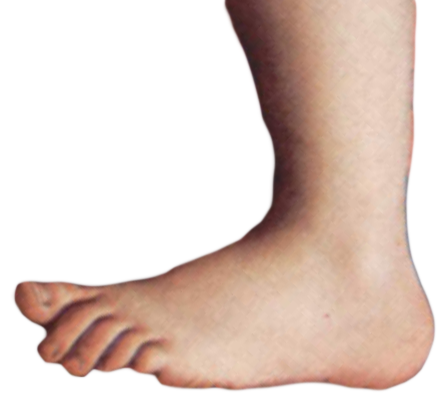
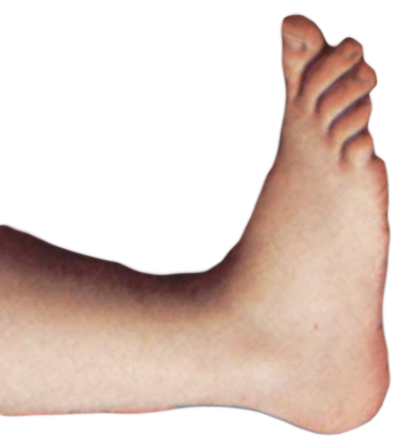
Adjust foot behavior to prevent entrapment

diff --git a/qml/conveyor/Conveyor.qml b/qml/conveyor/Conveyor.qml
@@ -12,39 +12,55 @@ Item {
     property var pictureArray: []
     property var nextImage
 
+    QtObject {
+        id: d
+
+        property int footStartingX: -50 - foot.width
+        property int mountingDesperation: 1
+    }
+
     ImageBoxBody {
         id: foot
+
+        categories: Box.Category1
+        collidesWith: Box.Category2
+
         world: theWorld
-        density: 20000
+        density: 200000
         bodyType: Body.Dynamic
-        x: -width
+        x: d.footStartingX
         anchors.verticalCenter: viewport.verticalCenter
-        rotation: -90
-        mirror: true
         fixedRotation: true
         z: 10
         source: "qrc:/Monty_python_foot.png"
-        sourceSize.height: viewport.height
-        sourceSize.width: viewport.height/foot.implicitHeight*foot.implicitWidth
+        height: viewport.height
+        width: viewport.height/foot.implicitHeight*foot.implicitWidth
+        sourceSize.height: height
+        sourceSize.width: width
         Behavior on x { SmoothedAnimation{ duration: conveyorSettings.footAnimationTime } }
         Component.onCompleted: {
             foot.body.gravityScale = 0
         }
+        onBeginContact: {
+            var body = pictureArray[pictureArray.length-1].body
+            body.applyLinearImpulse(Qt.point(body.getMass()*5*Math.sqrt((pictureArray.length+1)),0), Qt.point(0,0));
+            withdrawlBoot()
+        }
     }
 
-    SequentialAnimation {
-        id: stomp
-        running: false
-        ScriptAction { script: foot.x = pictureArray[pictureArray.length-1].x*1.1 }
-        NumberAnimation { duration: conveyorSettings.footAnimationTime }
-        // linger
-        NumberAnimation { duration: 2*conveyorSettings.footAnimationTime }
-        ScriptAction { script: foot.x = -foot.width - 10 }
-        NumberAnimation { duration: conveyorSettings.footAnimationTime }
+    function bootImage() {
+        d.mountingDesperation += d.mountingDesperation
+        foot.active = true;
+        foot.x = pictureArray[pictureArray.length-1].x*2
+    }
+
+    function withdrawlBoot() {
+        foot.active = false;
+        foot.x = d.footStartingX
     }
 
     function spawnImage() {
-        if (stomp.running)
+        if (foot.x != d.footStartingX)
             return
 
         if (!nextImage) {
@@ -53,8 +69,8 @@ Item {
 
         if (pictureArray.length > 0 && pictureArray[pictureArray.length-1].x < nextImage.width) {
             var body = pictureArray[pictureArray.length-1].body
-            if (body.linearVelocity.y < 0.001) {
-                stomp.start()
+            if ((body.linearVelocity.y < 0.001) && (body.linearVelocity.x < 1)) {
+                bootImage()
             }
         } else {
             nextImage.murder.connect(removeImage)
@@ -63,6 +79,7 @@ Item {
 
             pictureArray.push(nextImage)
             nextImage = null
+            d.mountingDesperation = 1
         }
     }
 
@@ -85,6 +102,9 @@ Item {
         ArtBoxBody {
             signal murder(var item)
 
+            categories: Box.Category2
+            collidesWith: Box.Category1 | Box.Category2 | Box.Category3
+
             density: 1
             height: root.height/conveyorSettings.rowCount
             width: height*imageModel.data(modelIndex, PictureModel.RatioRole)
@@ -92,9 +112,7 @@ Item {
             fixedRotation: true
 
             onXChanged: {
-                if (x < 0) {
-                    murder(this)
-                } else if (x + width > floor.width) {
+                if (x + width > floor.width) {
                     fixedRotation = false
                 }
             }
@@ -128,13 +146,17 @@ Item {
 
         RectangleBoxBody {
             id: floor
+
+            categories: Box.Category3
+            collidesWith: Box.Category2
+
             world: theWorld
             height: 0
-            width: parent.width - 400
+            width: parent.width - root.width/4
             anchors {
                 top: parent.bottom
             }
-            friction: 0
+            friction: 0.01
         }
     }
 
